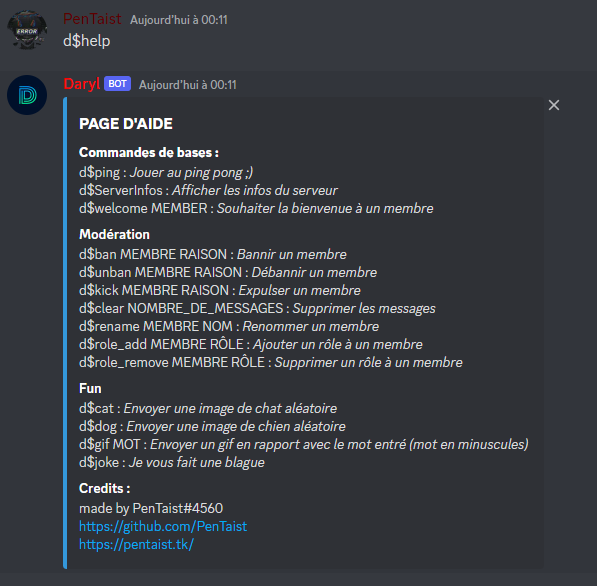
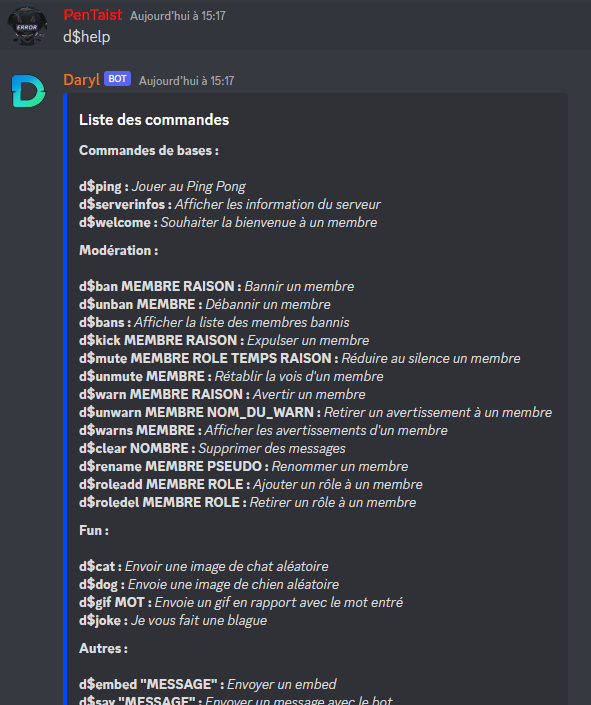
Add files via upload

Changed region(s): [[0.0, 0.0, 0.9442, 1.0], [0.9137, 0.1536, 0.9442, 0.1843]]

diff --git a/docs.html b/docs.html
@@ -28,14 +28,10 @@
             <a href="#basic-commands">Commandes de bases</a>
             <a href="#mod">Modération</a>
             <a href="#fun">Fun</a>
+            <a href="#other">Autres</a>
         </div>
     </center>
     <div class="container">
-        <div class="maintenance">
-            <h1 class="alert">COMMANDES EN MAINTENANCES :</h1>
-            <p>d$unban</p>
-            <p>d$joke</p>
-        </div>
         <h1 id="basic-commands">
             <font color="#00ffa6">C</font><font color="#00faab">o</font><font color="#00f4b0">m</font><font color="#00efb6">m</font><font color="#00eabb">a</font><font color="#01e4c0">n</font><font color="#01dfc5">d</font><font color="#01dacb">e</font><font color="#01d4d0">s</font><font color="#01cfd5"> </font><font color="#01c9da">d</font><font color="#01c4e0">e</font><font color="#01bfe5"> </font><font color="#02b9ea">b</font><font color="#02b4ef">a</font><font color="#02aff5">s</font><font color="#02a9fa">e</font><font color="#02a4ff">s</font>
         </h1>
@@ -56,8 +52,29 @@
         <img src="img/ban.png" alt="ban">
         <p>d$ban MEMBRE RAISON : Bannir un membre</p>
         <hr>
+        <img src="img/unban.png" alt="unban">
+        <p>d$unban MEMBRE RAISON : Débannir un membre</p>
+        <hr>
+        <img src="img/bans.png" alt="bans">
+        <p>d$bans : Afficher les membres bannis</p>
+        <hr>
         <img src="img/kick.png" alt="kick">
         <p>d$kick MEMBRE RAISON : Expulser un membre</p>
+        <hr>
+        <img src="img/mute.png" alt="mute">
+        <p>d$mute MEMBRE TEMPS RAISON : Réduire au silence un membre</p>
+        <hr>
+        <img src="img/unmute.png" alt="unmute">
+        <p>d$unmute MEMBRE : Rétablir la vois d'un membre</p>
+        <hr>
+        <img src="img/warn.png" alt="warn">
+        <p>d$warn MEMBRE RAISON : Avertir un membre</p>
+        <hr>
+        <img src="img/unwarn.png" alt="unwarn">
+        <p>d$unwarn MEMBRE NOM_DU_WARN : Retirer un avertissement à un membre</p>
+        <hr>
+        <img src="img/warns.png" alt="warns">
+        <p>d$warns MEMBRE : Afficher les avertissements d'un membre</p>
         <hr>
         <img src="img/clear.png" alt="clear">
         <p>d$clear NUMBER : Effacer des messages</p>
@@ -65,11 +82,11 @@
         <img src="img/rename.png" alt="rename">
         <p>d$rename MEMBRE PSEUDO : Renommer un membre</p>
         <hr>
-        <img src="img/role_add.png" alt="role_add">
-        <p>d$role_add MEMBRE RÔLE : Donner un rôle à un membre</p>
+        <img src="img/roleadd.png" alt="role_add">
+        <p>d$roleadd MEMBRE ROLE : Donner un rôle à un membre</p>
         <hr>
-        <img src="img/role_remove.png" alt="role_remove">
-        <p>d$role_remove MEMBRE RÔLE : Enlever un rôle à un membre</p>
+        <img src="img/roledel.png" alt="role_remove">
+        <p>d$roledel MEMBRE ROLE : Enlever un rôle à un membre</p>
         <h1 id="fun">
             <font color="#00ffa6">F</font><font color="#01d2d3">u</font><font color="#02a4ff">n</font>
         </h1>
@@ -84,6 +101,20 @@
         <hr>
         <img src="img/joke.png" alt="joke">
         <p>d$joke : Daryl vous fait une blague drôle (ou pas ;)</p>
+        <h1 id="other">
+            <font color="#00ffa6">A</font><font color="#00edb8">u</font><font color="#01dbca">t</font><font color="#01c8db">r</font><font color="#02b6ed">e</font><font color="#02a4ff">s</font>
+        </h1>
+        <img src="img/embed.png" alt="embed">
+        <p>d$embed "MESSAGE" : Envoyer un embed</p>
+        <hr>
+        <img src="img/say.png" alt="say">
+        <p>d$say "MESSAGE" : Envoyer un message avec le bot</p>
+        <hr>
+        <img src="img/rolereact_add.png" alt="rolereact_add">
+        <p>d$rolereact_add ROLE EMOJI ID_MESSAGE : Ajouter un rôle réaction</p>
+        <hr>
+        <img src="img/rolereact_del.png" alt="reloreact_del">
+        <p>d$rolereact_del ID_MESSAGE : Supprimer les rôles réactions</p>
     </div>
 </body>
 </html>

diff --git a/credits.html b/credits.html
@@ -34,9 +34,6 @@
                 <a href="https://discord.gg/TDXXq3XxrW" target="_blank">
                     <img src="img/discord.png" alt="discord">
                 </a>
-                <a href="https://t.me/hackbdd" target="_blank">
-                    <img src="img/telegram.png" alt="telegram">
-                </a>
                 <a href="https://paypal.me/PTaist" target="_blank">
                     <img src="img/paypal.png" alt="paypal">
                 </a>                

diff --git a/css/docs.css b/css/docs.css
@@ -10,8 +10,8 @@
     background-color: #000918;
     width: 20%;
     position: absolute;
-    top: 20%;
-    bottom: -500%;
+    top: 30%;
+    bottom: -950%;
 }
 
 .sidebar a {
@@ -27,7 +27,9 @@
 }
 
 .sidebar a:first-child {
-    margin-top: 38%;
+    margin-top: 42%;
+    width: 110.8%;
+    background-color: #000918;
 }
 
 .sidebar a:hover {
@@ -62,6 +64,7 @@
 
     .sidebar a:first-child {
         margin-top: 0;
+        width: 100%;
     }
 
     .sidebar a:hover {
